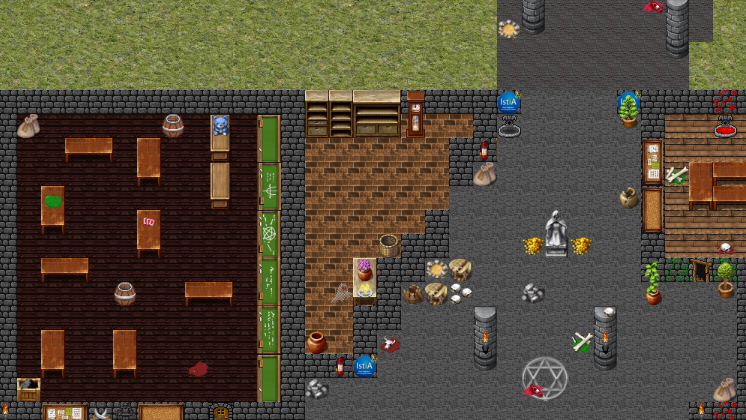
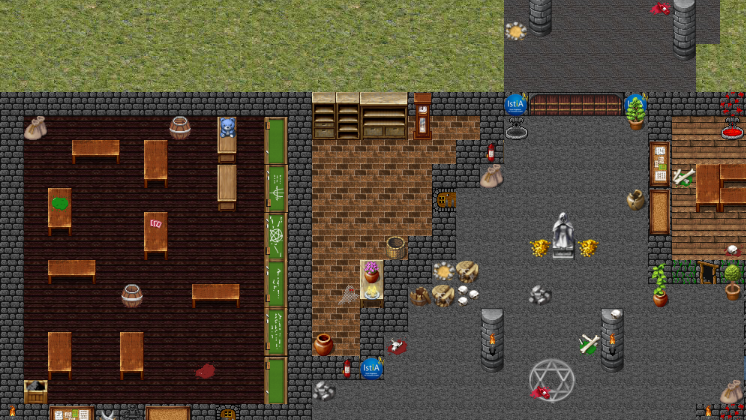
Ajout des nvlles images pour Brendan + prepa map

diff --git a/model/object/Carte.js b/model/object/Carte.js
@@ -29,11 +29,6 @@ Carte.Initialiser = function(largeur, hauteur) {
 	this.hauteur = hauteur;
 	
 	console.log("CARTE : Initialisation carte");
-	/*this.matrice = new Array([-1,-1,-1,-1,-1],
-							 [-1, 0,-1, 1,-1],
-							 [-1, 1, 2, 3,-1],
-							 [-1, 4, 5, 6,-1],
-							 [-1,-1,-1,-1,-1]);*/
 	this.matrice=new Array(hauteur);
 	for (i=0; i <hauteur; i++)
 	{
@@ -44,6 +39,40 @@ Carte.Initialiser = function(largeur, hauteur) {
 	this.matrice[2]=([-1, 2, 3, 4,-1]);
 	this.matrice[3]=([-1, 5, 6, 7,-1]);
 	this.matrice[4]=([-1,-1,-1,-1,-1]);
+	
+	 /*this.matrice[0]=([-1,-1,-1,-1,-1,-1,-1,-1,-1,-1,-1,-1,-1,-1,-1,-1,-1,-1,-1,-1,-1,-1,-1,-1,-1,-1,-1]);
+
+	 this.matrice[1]=([-1,-1,-1,-1,-1,-1,-1,-1,-1,-1,-1,-1,-1,-1,-1,-1,-1,-1,-1,31,-1,-1,-1,-1,-1,-1,-1]);
+	
+	 this.matrice[2]=([-1,-1,-1,-1,-1,-1,-1,-1,-1,-1,-1,-1,-1,-1,-1,-1,-1,-1,-1,30,-1,-1,-1,-1,-1,-1,-1]);
+	
+	 this.matrice[3]=([-1,-1,-1,-1,-1,-1,-1,-1,-1,-1,-1,-1,-1,-1,-1,-1,-1,-1,28,27,29,-1,-1,-1,-1,-1,-1]);
+	 
+	 this.matrice[4]=([-1,-1,-1,-1,-1,-1,-1,-1,-1,48,-1,-1,-1,-1,-1,-1,-1,-1,-1, 0,-1,-1,-1,-1,-1,35,-1]);
+	
+	 this.matrice[5]=([-1,-1,-1,-1,-1,-1,-1,26, 0,47, 0, 0, 0, 0, 0, 0,49, 0,50,32,33, 0, 0, 0, 0,34,-1]);
+	
+	 this.matrice[6]=([-1,-1,-1,-1,25, 0, 0,24,-1, 0,-1,-1,-1,-1,-1,-1,-1,-1,-1, 0,-1,-1,-1,-1,-1, 0,-1]);
+	
+	 this.matrice[7]=([-1,-1,-1,-1,-1,-1,-1, 0,-1, 0,-1,17,15,-1,-1,14,-1,-1, 5, 4,-1, 3,-1,57,-1, 0,-1]);
+	
+	 this.matrice[8]=([-1,-1,-1,-1,-1,-1,-1, 0,-1, 0,-1,18,16,13, 0,54, 0, 7, 0, 6, 0,55, 2, 1,-1, 0,-1]);
+	
+	 this.matrice[9]=([-1,-1,-1,-1,-1,-1,-1, 0,-1, 0,-1,-1,-1,12,-1,11,-1, 8,-1,10,-1, 9,-1,-1,-1, 0,-1]);
+	
+	this.matrice[10]=([-1,-1,-1,-1,-1,-1,-1, 0,-1, 0,-1,-1,-1,-1,-1,-1,-1, 0,-1,-1,-1,-1,-1,-1,-1, 0,-1]);
+	
+	this.matrice[11]=([-1,-1,-1,-1,-1,-1,-1, 0,-1, 0,-1,-1,-1,-1,-1,-1,-1, 0,-1,-1,-1,-1,-1,-1,-1, 0,-1]);
+	
+	this.matrice[12]=([-1,-1,51,-1,23,58,-1, 0,-1,46,-1,-1,-1,-1,-1,-1,-1, 0,-1,-1,-1,-1,-1,-1,-1,36,-1]);
+	
+	this.matrice[13]=([-1,-1, 0,-1, 0,-1,-1, 0,-1, 0,-1,-1,-1,-1,-1,-1,-1, 0,-1,-1,-1,-1,-1,-1,-1, 0,-1]);
+
+	this.matrice[14]=([-1,22,52 ,0,56, 0, 0,19, 0,45, 0, 0, 0,44,43, 0,42,41, 0, 0, 0,40,39,38, 0,37,-1]);
+
+	this.matrice[15]=([-1,-1,21,-1,-1,-1,-1,20,-1,-1,-1,-1,-1,-1,-1,-1,-1,-1,-1,-1,-1,-1,-1,-1,-1,-1,-1]);
+
+	this.matrice[16]=([-1,-1,-1,-1,-1,-1,-1,-1,-1,-1,-1,-1,-1,-1,-1,-1,-1,-1,-1,-1,-1,-1,-1,-1,-1,-1,-1]);*/
 	
 	console.log("MATRICE : " + this.matrice);
 	
@@ -111,13 +140,30 @@ Carte.GetIdSalleSuivante = function(idSalleEnCours, direction) {
 	var tuple = this.GetCoordSalleById(idSalleEnCours);
 	console.log("CARTE : DEBUG GetIdSalleSuivante : x = " + tuple.x + " y = "
 			+ tuple.y + " direction = " + direction);
+	var i=1;
 	if (direction.toUpperCase() == 'NORD') {
+		while(this.GetIdSalleByCoord(tuple.x -i, tuple.y)==0)
+		{
+			i++;
+		}
 		return this.GetIdSalleByCoord(tuple.x -1, tuple.y);
 	} else if (direction.toUpperCase() == 'SUD') {
+		while(this.GetIdSalleByCoord(tuple.x +i, tuple.y)==0)
+		{
+			i++;
+		}
 		return this.GetIdSalleByCoord(tuple.x + 1, tuple.y);
 	} else if (direction.toUpperCase() == 'EST') {
+		while(this.GetIdSalleByCoord(tuple.x, tuple.y+i)==0)
+		{
+			i++;
+		}
 		return this.GetIdSalleByCoord(tuple.x, tuple.y + 1);
 	} else if (direction.toUpperCase() == 'OUEST') {
+		while(this.GetIdSalleByCoord(tuple.x, tuple.y-i)==0)
+		{
+			i++;
+		}
 		return this.GetIdSalleByCoord(tuple.x, tuple.y - 1);
 	}
 	console.log("## WARNING ## CARTE :: return -1 (Carte.js)");

diff --git a/view/canvas.js b/view/canvas.js
@@ -406,6 +406,64 @@ function initialize() {
 		{src:"public/map/2-0.png", id:"2-0"},
 		{src:"public/map/2-1.png", id:"2-1"},
 		{src:"public/map/2-2.png", id:"2-2"},
+		{src:"public/map/1.png", id:"1"},
+		{src:"public/map/2.png", id:"2"},
+		{src:"public/map/3.png", id:"3"},
+		{src:"public/map/4.png", id:"4"},
+		{src:"public/map/5.png", id:"5"},
+		{src:"public/map/6.png", id:"6"},
+		{src:"public/map/7.png", id:"7"},
+		{src:"public/map/8.png", id:"8"},
+		{src:"public/map/9.png", id:"9"},
+		{src:"public/map/10.png", id:"10"},
+		{src:"public/map/11.png", id:"11"},
+		{src:"public/map/12.png", id:"12"},
+		{src:"public/map/13.png", id:"13"},
+		{src:"public/map/14.png", id:"14"},
+		{src:"public/map/15.png", id:"15"},
+		{src:"public/map/16.png", id:"16"},
+		{src:"public/map/17.png", id:"17"},
+		{src:"public/map/18.png", id:"18"},
+		{src:"public/map/19.png", id:"19"},
+		{src:"public/map/20.png", id:"20"},
+		{src:"public/map/21.png", id:"21"},
+		{src:"public/map/22.png", id:"22"},
+		{src:"public/map/23.png", id:"23"},
+		{src:"public/map/24.png", id:"24"},
+		{src:"public/map/25.png", id:"25"},
+		{src:"public/map/26.png", id:"26"},
+		{src:"public/map/27.png", id:"27"},
+		{src:"public/map/28.png", id:"28"},
+		{src:"public/map/29.png", id:"29"},
+		{src:"public/map/30.png", id:"30"},
+		{src:"public/map/31.png", id:"31"},
+		{src:"public/map/32.png", id:"32"},
+		{src:"public/map/33.png", id:"33"},
+		{src:"public/map/34.png", id:"34"},
+		{src:"public/map/35.png", id:"35"},
+		{src:"public/map/36.png", id:"36"},
+		{src:"public/map/37.png", id:"37"},
+		{src:"public/map/38.png", id:"38"},
+		{src:"public/map/39.png", id:"39"},
+		{src:"public/map/40.png", id:"40"},
+		{src:"public/map/41.png", id:"41"},
+		{src:"public/map/42.png", id:"42"},
+		{src:"public/map/43.png", id:"43"},
+		{src:"public/map/44.png", id:"44"},
+		{src:"public/map/45.png", id:"45"},
+		{src:"public/map/46.png", id:"46"},
+		{src:"public/map/47.png", id:"47"},
+		{src:"public/map/48.png", id:"48"},
+		{src:"public/map/49.png", id:"49"},
+		{src:"public/map/50.png", id:"50"},
+		{src:"public/map/51.png", id:"51"},
+		{src:"public/map/52.png", id:"52"},
+		{src:"public/map/53.png", id:"53"},
+		{src:"public/map/54.png", id:"54"},
+		{src:"public/map/55.png", id:"55"},
+		{src:"public/map/56.png", id:"56"},
+		{src:"public/map/57.png", id:"57"},
+		{src:"public/map/58.png", id:"58"},
 		{src:"public/spritesheets/arme/100.png", id:"100"},
 		{src:"public/spritesheets/arme/101.png", id:"101"},
 		{src:"public/spritesheets/arme/102.png", id:"102"},

diff --git a/model/GameRules.js b/model/GameRules.js
@@ -6,8 +6,8 @@ function GameRules() {
 };
 
 //********** ID DES ZONES SURES **********
-GameRules.idZoneSure_1 = function() 						{ return 0; },
-GameRules.idZoneSure_2 = function() 						{ return 5; },
+GameRules.idZoneSure_1 = function() 						{ return 57; },
+GameRules.idZoneSure_2 = function() 						{ return 17; },
 
 
 //********** COUT EN PA **********
